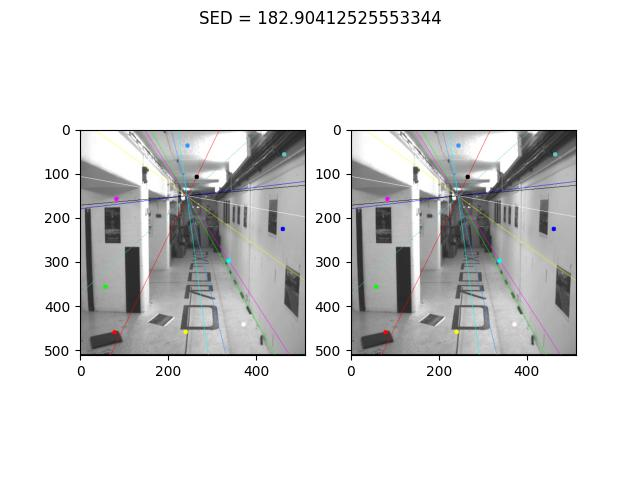
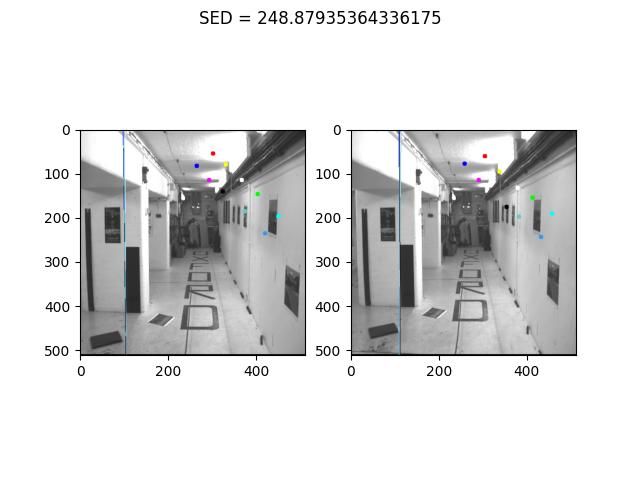
Specified colors

diff --git a/HW2/Q1/Q1.py b/HW2/Q1/Q1.py
@@ -25,13 +25,13 @@ def getImagePts(image1, image2, var_name1, var_name2):
     np.save(var_name2 + '.npy', np.concatenate((np.round(pts), np.ones((np.shape(pts)[0]))[:, np.newaxis]), axis=1))
 
 
-def draw_lines(img1, img2, lines, pts1, pts2):
+def draw_lines(img1, img2, lines, pts1, pts2, used_colors):
     """ img1 - image on which we draw the epilines for the points in img2 lines - corresponding epilines. """
     r_, c_ = img1.shape[:2]
 
     i = 0
     for r1_, pt1, pt2 in zip(lines, pts1, pts2):
-        color = colors[i]
+        color = used_colors[i]
         x_0, y_0 = map(int, [0, -r1_[2] / r1_[1]])
         x_1, y_1 = map(int, [c_, -(r1_[2] + r1_[0] * c_) / r1_[1]])
         img1 = cv2.line(img1, (x_0, y_0), (x_1, y_1), color, 1)
@@ -108,10 +108,10 @@ if __name__ == "__main__":
             im2_copy = deepcopy(im2)
 
             lines1 = cv2.computeCorrespondEpilines(x2.reshape(-1, 1, 2), 2, F1).reshape(-1, 3)
-            im1_res, _ = draw_lines(im1_copy, im2_copy, lines1, x1, x2)
+            im1_res, _ = draw_lines(im1_copy, im2_copy, lines1, x1, x2, colors)
 
             lines2 = cv2.computeCorrespondEpilines(x1.reshape(-1, 1, 2), 1, F1).reshape(-1, 3)
-            _, im2_res = draw_lines(im2_copy, im1_copy, lines2, x2, x1)
+            im2_res, _ = draw_lines(im2_copy, im1_copy, lines2, x2, x1, colors)
 
             curr_sed = calc_SED(x1, x2, lines1, lines2)
 
